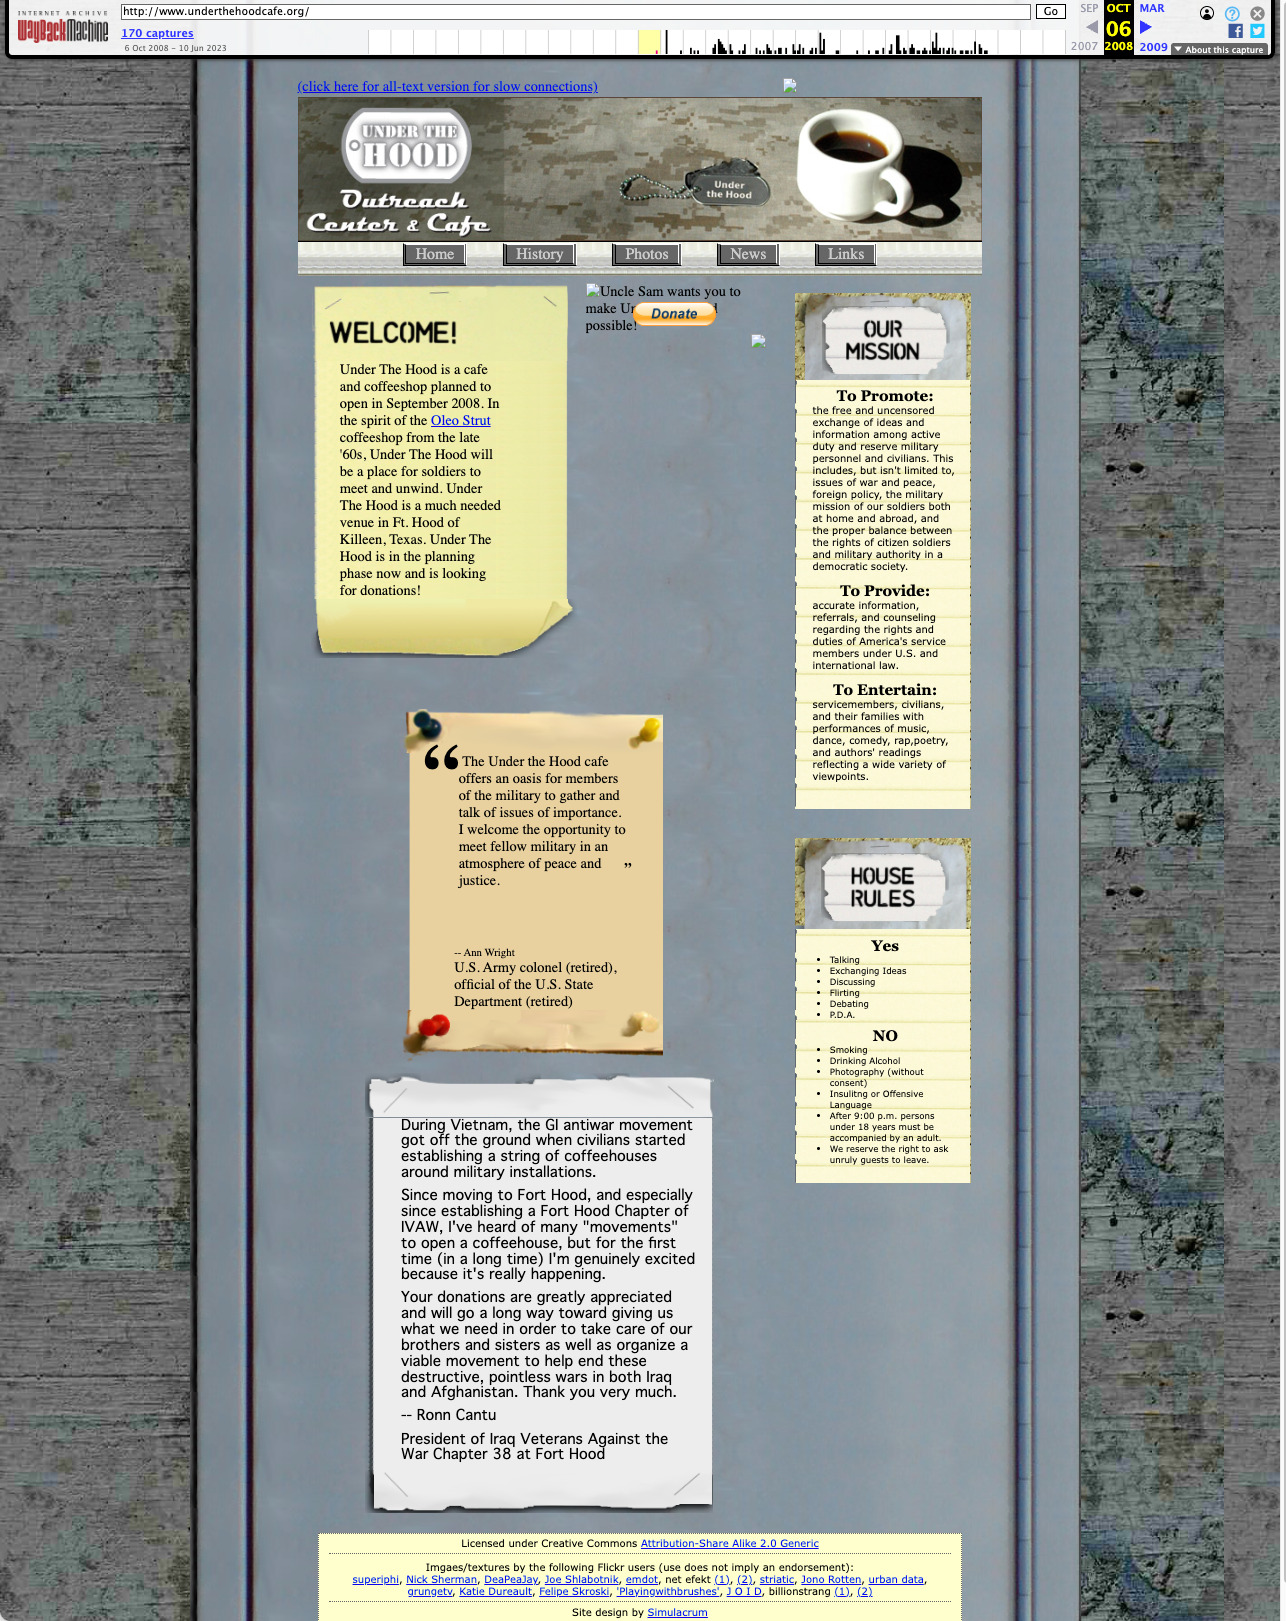
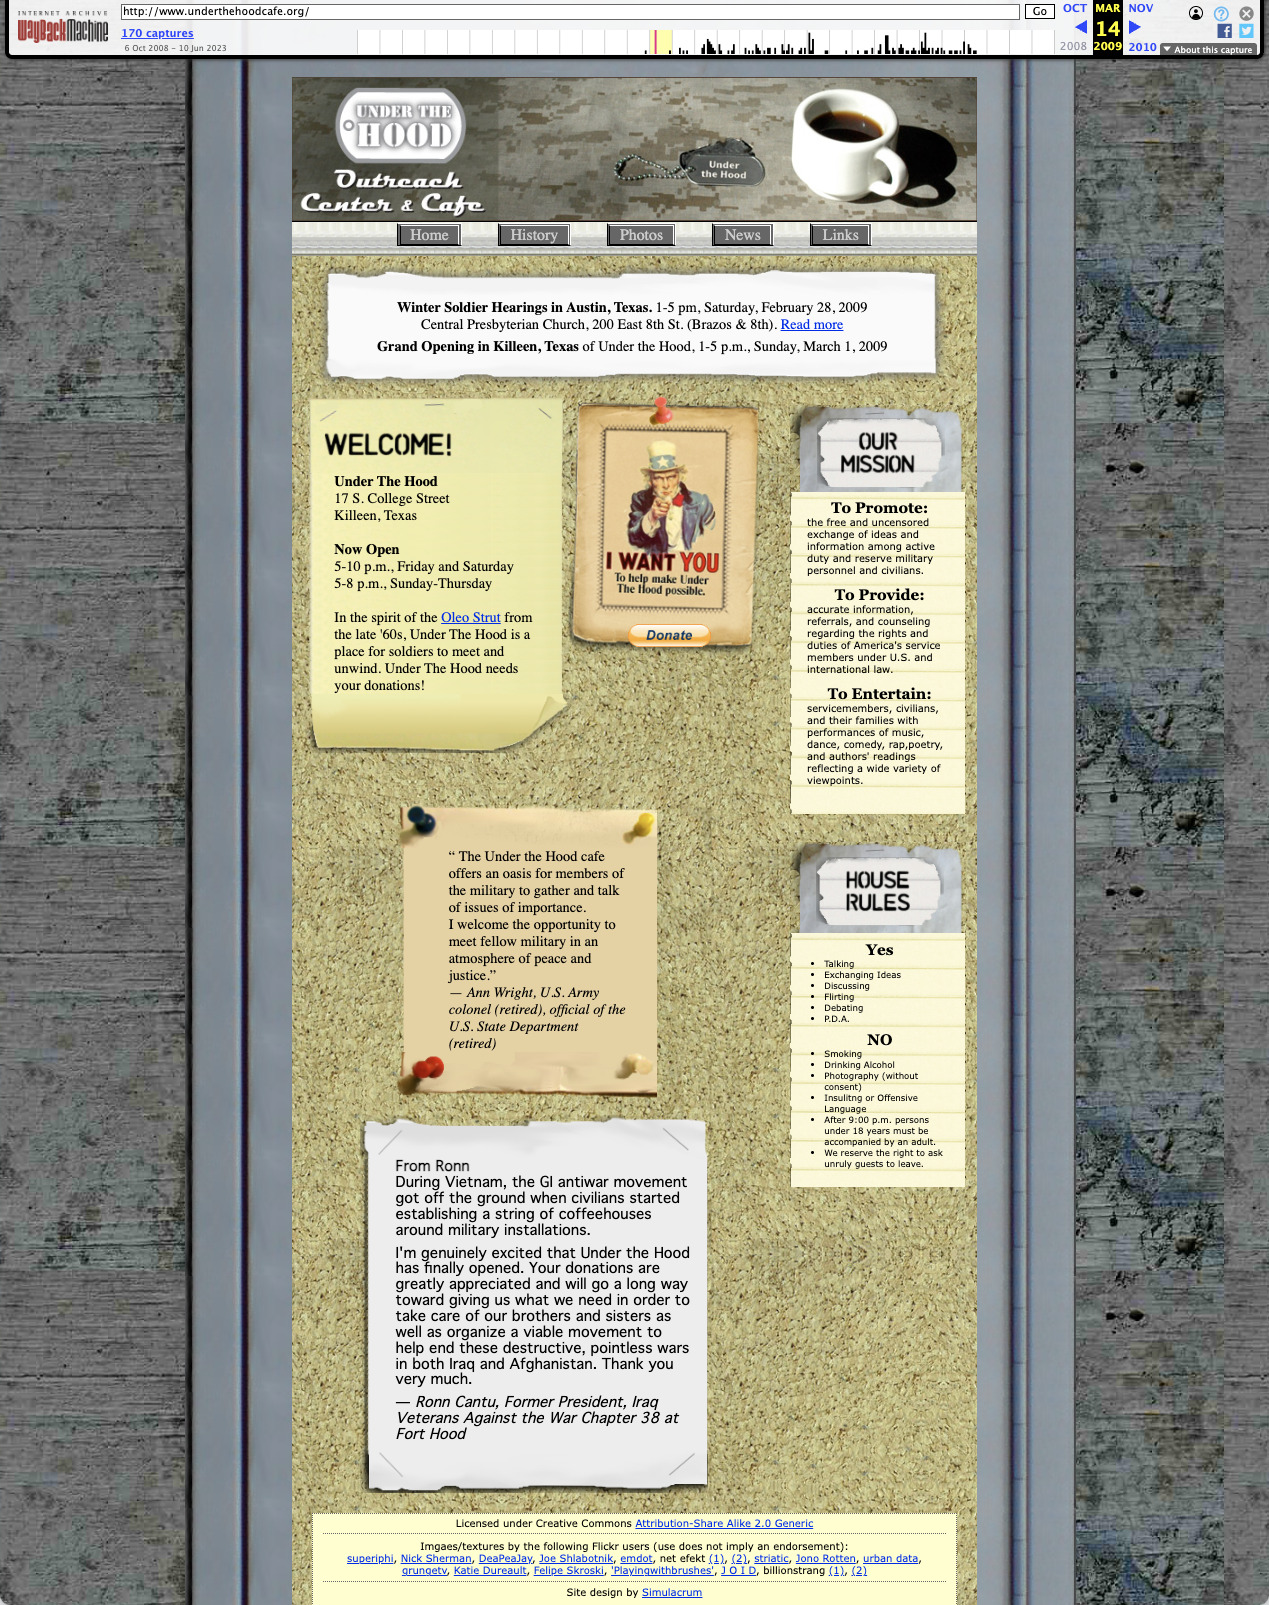
content(press): unlist the Austin piece and revise its images
- Mark it `unlisted`: reached from the header rather than the press index
- Set the S Collective bio as an aside
- Swap the Under the Hood screenshot for a capture of the open cafe
- Date the Daikaiju caption in words and revise the coffeeshop one

diff --git a/src/content/lab/twenty-years-in-austin.md b/src/content/lab/twenty-years-in-austin.md
@@ -7,6 +7,7 @@ tags:
   - writing
 layout: longform
 draft: false
+unlisted: true
 ---
 
 I'm an East-coaster, born and raised, who's also lived in Austin, Texas for two decades. I've lived in Austin now for as long as I lived in Pennsylvania. I wish I knew how many hours I've spent in Austin coffeeshops working on my laptop. It could easily be a whole year of my life.
@@ -28,12 +29,12 @@ One of the interviews I went to ended up being for a "psychic" who had written b
 
 My first web dev job was with a two-man company called S Collective. I took a pay cut from bagging groceries to get a foot in the door of the industry. I started in their office above the TV store and eventually they let me work from home (a couple blocks from the office). Stressful job, but we built some nice WordPress sites. We worked on the local Discount Electronics' website and built a site for the first city-wide initiative to get wifi in local restaurants and small businesses.
 
-![My bio on the S Collective team page: a photo of me in a suit at night with city lights behind me, headed "Mark McDermott, senior front end developer"](../../assets/lab/scollective-bio.png)
+![My bio on the S Collective team page: a photo of me in a suit at night with city lights behind me, headed "Mark McDermott, senior front end developer"](../../assets/lab/scollective-bio.png "aside")
 My bio on the S Collective team page. I did not write the copy.
 
 I also made sites on the side, usually for free, for some non-profits in this era. I was working the phones for the Austin GI Rights hotline and built their site, which I always liked. I also built a site for Under the Hood, a coffeehouse near Fort Hood started by antiwar veterans as a gathering place for soldiers. I built a site for an anarchist thrift shop in Drupal that was always a nightmare to maintain.
 
-![The Under The Hood Outreach Center and Cafe homepage on the Wayback Machine — a camouflage banner with dog tags and a cup of coffee over a wood-plank background, beside panels headed "Our Mission" and "House Rules"](../../assets/lab/under-the-hood-wayback.jpg)
+![The Under The Hood Outreach Center and Cafe homepage on the Wayback Machine — a camouflage banner with dog tags and a cup of coffee, over notices pinned to a corkboard: the Killeen address and opening hours, an "I want you" donation poster, and panels headed "Our Mission" and "House Rules"](../../assets/lab/under-the-hood-wayback.jpg)
 Under the Hood website, via the Internet Archive.
 
 After S Collective was uShip. I remember wearing a suit to the interview and they said they'd hire me but I couldn't wear the suit to work. I would ride my bike to the Austin Metrorail and take my bike on the train to get to the office downtown. I remember my first days walking into their office downtown near 3rd and Brazos. I really felt like a bigshot, working downtown and walking past the skyscrapers to get to work.
@@ -81,7 +82,7 @@ My wife and I got married at a lovely wedding venue in South Austin. I think it 
 All non-native Austinites claim that Austin's prime was right when they got there and that it's all been downhill since. My early Austin era smelled like a dive bar and sounded like tinnitus. Skrillex played Cheer Up Charlie's packed outdoor stage, followed by Moby. Tycho played in a SXSW tent the size of my bedroom. Ghostland Observatory played a packed parking lot show with kids hanging from the set rafters. My wife and I saw Daikaiju play three times: sweaty, tattooed dudes with no shirts wearing kabuki masks lighting their cymbals on fire with lighter fluid. My buddy broke his glasses at their show when a crowdsurfer accidentally kicked him in the face. My wife and I went and saw This Will Destroy You, but she thought the music was too slow and boring and we left (I had told her prior that their music would be slow and boring).
 
 ![Daikaiju playing an outdoor stage in kabuki masks, shirtless, guitars slung high](../../assets/lab/daikaiju.jpg "aside")
-Daikaiju at Surf By Surf East, The Vortex, 3/14/15.
+Daikaiju at Surf By Surf East, The Vortex, March 2015.
 
 There were other little coffeeshops I'd go to, too. Monkey Nest was there on Burnet. It was always really loud with undergrad students. Later Summer Moon coffeeshops started popping up around Austin. There was something decidedly un-Austin about Summer Moon. Beautiful, expensive looking branding. Coffee tasting more like a sugary dessert than a watery, black all-nighter patio coffee at Epoch. But we eventually succumbed to temptations.
 
